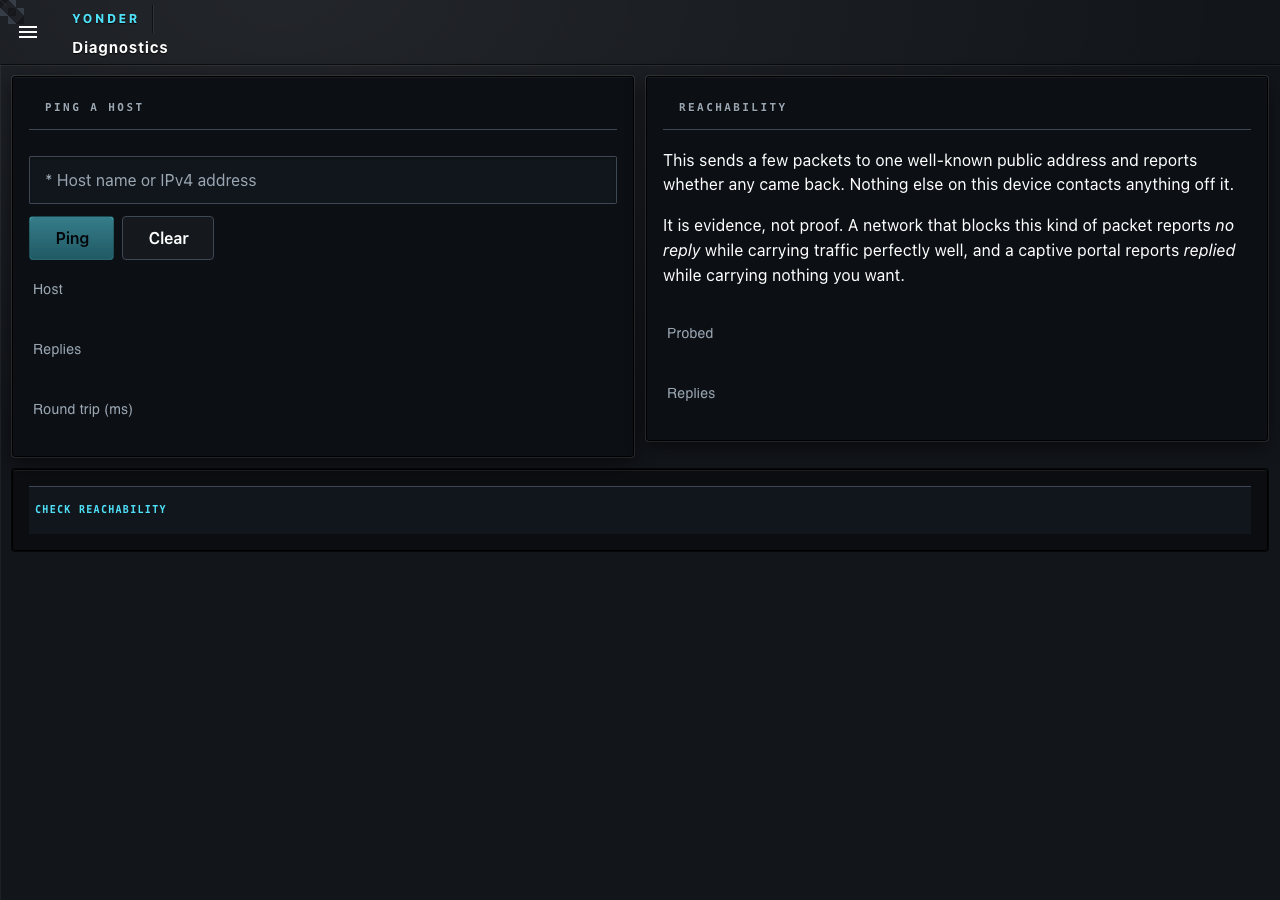
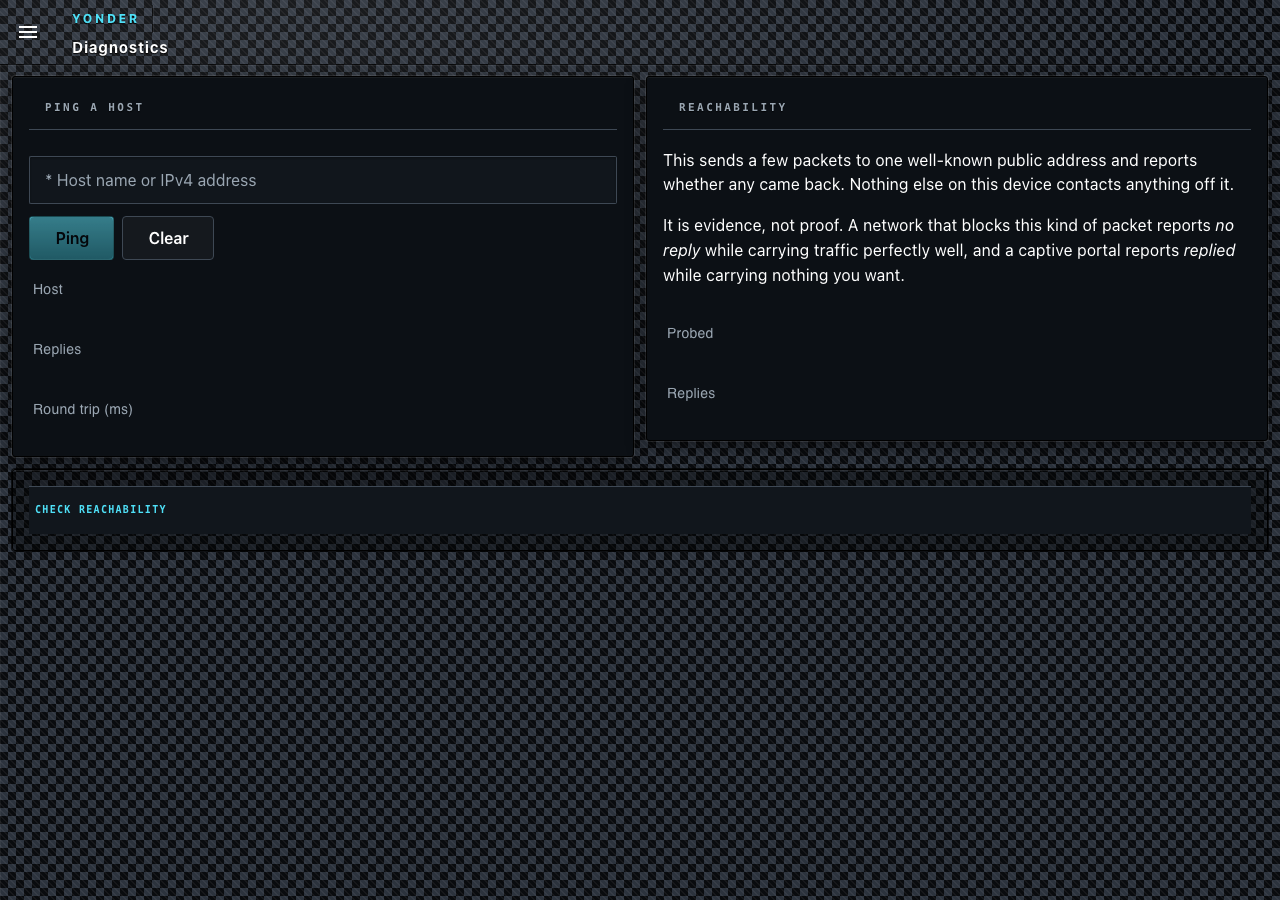
fix(console): the carbon painted one tile in the corner — background-repeat
Vuetify's reset sets `background-repeat: no-repeat` on `.v-application__wrap`,
which is the element the carbon rule lands on. The rule set six background
images, six sizes and six positions and never said it tiled, so the whole
panel was one 16px tile in the top-left corner of the page and nothing else.

A swatch in isolation renders it correctly, which is what made the mistake
convincing: the texture was right, the tones were right, and it only fails
inside the framework's reset. The corner tile was visible in two captures I
showed as finished work. I read it as a flat background with a smudge and did
not ask what the smudge was.

Found by magnifying the live page five times and looking at 60 pixels of it,
after the computed background-image said the texture was applied and the
rendered pixels said it was not. The property I had not probed was the one
that was wrong.

The rule now states that it repeats, and theme.test.ts asserts it, because a
tiled texture that relies on the CSS default is a texture that renders once
wherever a framework has an opinion. A comment in the generated stylesheet
also cost a build: it quoted the property name in backticks, inside a
template literal, which closes the string — so the test now also checks that
no backtick reaches the generated CSS.

800 tests, gate green, both palettes recaptured with the panel visible.

R-UI-13; ADR-0009.

Changed region(s): [[0.0, 0.0, 1.0, 1.0]]

diff --git a/packages/yonder-core/src/console/theme.test.ts b/packages/yonder-core/src/console/theme.test.ts
@@ -207,6 +207,16 @@ describe("themeCss ships a whole shell", () => {
       expect(shade, `${t}: the twill has no dark tone`).toBeDefined();
       const gap = Math.abs(parseInt(weave.slice(1), 16) - parseInt(shade.slice(1), 16));
       expect(gap, `${t}: the weave tones are too close to see`).toBeGreaterThan(0x080808);
+
+      // Vuetify's reset sets `background-repeat: no-repeat` on the element
+      // this rule lands on. Leaving it to the CSS default painted one 16px
+      // tile in the corner of the page and nothing else — a flat background
+      // with a smudge, where the smudge was the entire panel. A tiled
+      // texture that does not say it tiles is a texture that renders once.
+      const rule = /\.nrdb-app,[\s\S]*?\}/.exec(css)?.[0] ?? "";
+      expect(rule, `${t}: no carbon rule`).not.toBe("");
+      expect(rule, `${t}: the carbon must state that it repeats`)
+        .toMatch(/background-repeat:\s*repeat/);
     }
   });
 

diff --git a/packages/yonder-core/src/console/theme.ts b/packages/yonder-core/src/console/theme.ts
@@ -311,6 +311,13 @@ html, body {
     linear-gradient(135deg, #090b0e 25%, transparent 25%, transparent 75%, #090b0e 75%);
   background-size: 100% 100%, 6px 6px, 16px 16px, 16px 16px, 16px 16px, 16px 16px;
   background-position: 0 0, 0 0, 0 0, 8px 8px, 0 0, 8px 8px;
+  /* Stated, never inherited. Vuetify sets background-repeat: no-repeat
+     on .v-application__wrap, so leaving this to the CSS default painted
+     exactly one 16px tile in the top-left corner of the page and nothing
+     else. It looked like a flat background with a smudge, and the smudge was
+     the whole panel. A swatch in isolation renders correctly, which is what
+     made it convincing; this only fails inside the framework's reset. */
+  background-repeat: repeat;
   background-attachment: fixed;
 }
 
